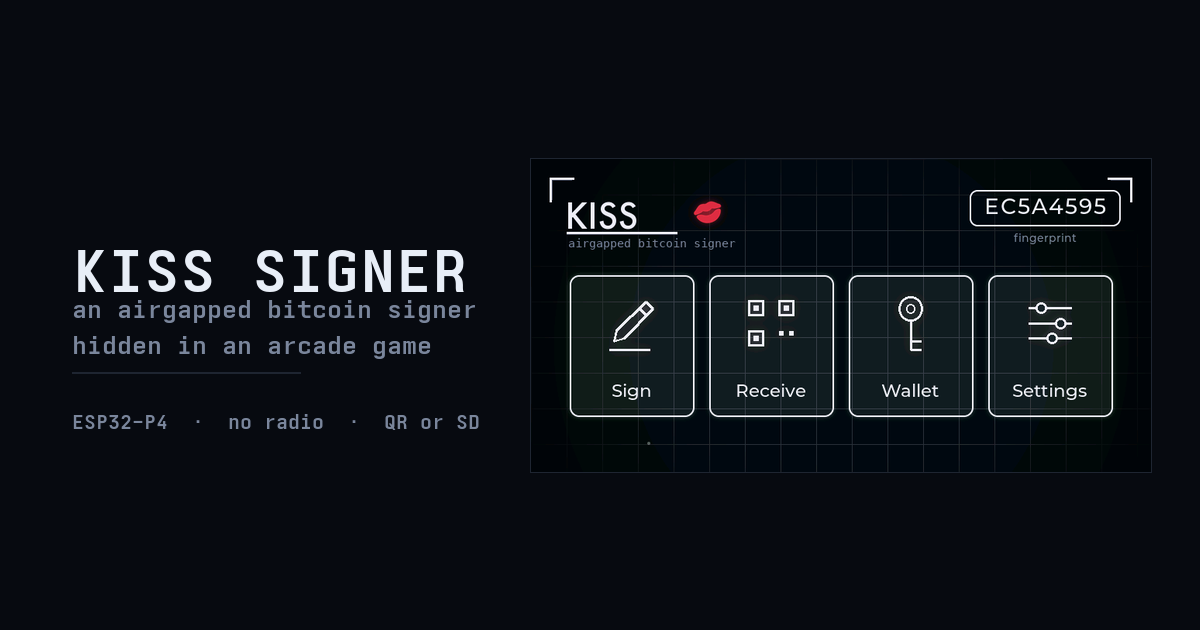
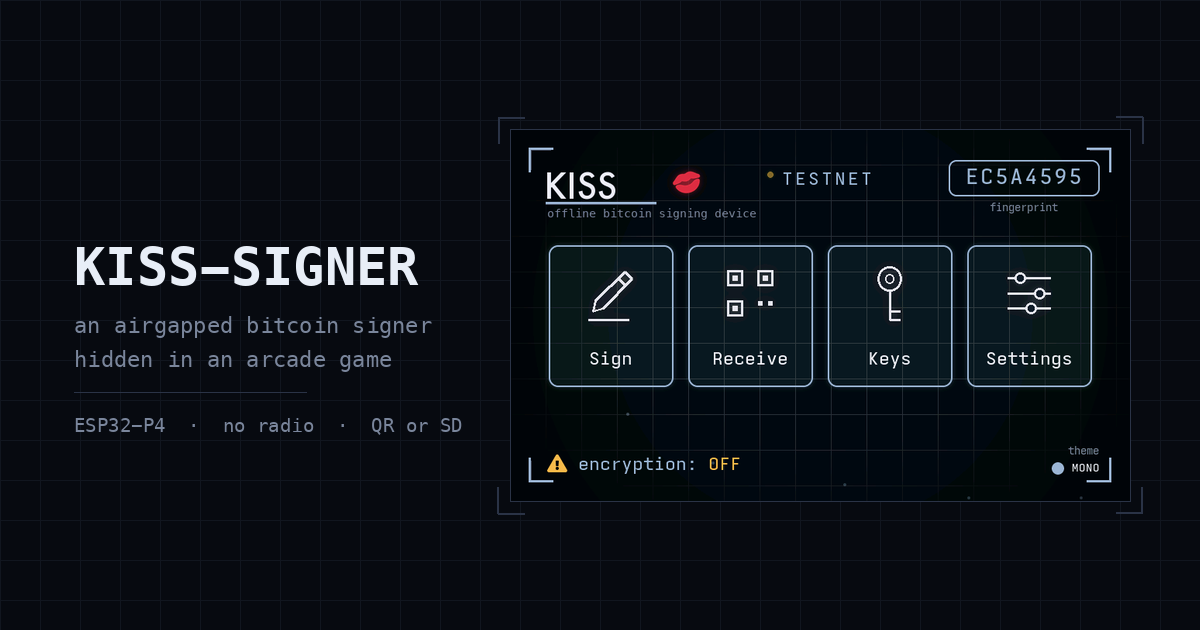
Generate the social card, and gate it
The card every shared link renders was composed by hand in July and had
no generator, so nothing could see it go stale. It was still drawing a
home screen whose third key read WALLET, months after the firmware
renamed that key to KEYS -- and `wallet` is the word the glossary
reserves for the coordinator and forbids on a screen of this device.
The same rule turned the release branch red the day this was written.

It is built from docs/media/signer-home.png now, the frame the
simulator renders, so the device draws its own half of the image and
the card cannot disagree with the screen again. Preflight runs --check
beside the other docs-image gates, which is the part that keeps it
true: 35 of 35.

diff --git a/assets/generators/og_card.py b/assets/generators/og_card.py
@@ -1,0 +1,122 @@
+#!/usr/bin/env python3
+"""Build docs/media/og-preview.png, the card every shared link renders.
+
+There was no generator for this. The card was composed by hand once, in
+July, and then went stale in a way nobody could see: it kept drawing a home
+screen whose third key said WALLET, months after the firmware renamed that key
+to KEYS -- and `wallet` is the one word the glossary reserves for the
+coordinator's object and forbids on a screen of this device. The same rule
+turned the release branch red the day this script was written.
+
+So the card is generated from the screenshot the docs already carry rather than
+redrawn from memory. Re-run it whenever the home screen changes and the card
+cannot drift from the device again:
+
+    python3 assets/generators/og_card.py            # writes the card
+    python3 assets/generators/og_card.py --check    # fails if it is stale
+
+The right-hand frame is docs/media/signer-home.png, which tools/gen_docs_shots.py
+renders from the simulator, so the device draws its own half of this image.
+Colours are the WT_* tokens from main/kiss_theme.h, same as the site.
+"""
+
+from __future__ import annotations
+
+import argparse
+import pathlib
+import sys
+
+from PIL import Image, ImageDraw, ImageFont
+
+ROOT = pathlib.Path(__file__).resolve().parents[2]
+SHOT = ROOT / "docs" / "media" / "signer-home.png"
+OUT = ROOT / "docs" / "media" / "og-preview.png"
+
+# Open Graph's expected size. Twitter reads the same file.
+W, H = 1200, 630
+
+BG = (7, 10, 16)  # WT_BG
+INK = (232, 238, 247)  # WT_INK
+MUT = (122, 134, 156)  # WT_MUT
+EDGE = (42, 51, 70)  # WT_EDGE
+GRID = (17, 22, 31)  # the site's backdrop rules, at card scale
+
+MENLO = "/System/Library/Fonts/Menlo.ttc"
+
+
+def font(size: int, bold: bool = False) -> ImageFont.FreeTypeFont:
+    """A mono face. Menlo, not the site's Ioskeley: PIL cannot read woff2, and
+    the shape of the letters matters less here than that they are monospaced."""
+    return ImageFont.truetype(MENLO, size, index=1 if bold else 0)
+
+
+def corner_brackets(d: ImageDraw.ImageDraw, box, arm=26, w=2, colour=EDGE):
+    """The reticle the device frames a target with, and the site frames its
+    panels with. Four corners, drawn as eight strokes."""
+    x0, y0, x1, y1 = box
+    for cx, cy, dx, dy in ((x0, y0, 1, 1), (x1, y0, -1, 1), (x0, y1, 1, -1), (x1, y1, -1, -1)):
+        d.line([(cx, cy), (cx + arm * dx, cy)], fill=colour, width=w)
+        d.line([(cx, cy), (cx, cy + arm * dy)], fill=colour, width=w)
+
+
+def build() -> Image.Image:
+    if not SHOT.exists():
+        sys.exit(f"missing {SHOT.relative_to(ROOT)}; run tools/gen_docs_shots.py first")
+
+    card = Image.new("RGB", (W, H), BG)
+    d = ImageDraw.Draw(card)
+
+    # the backdrop: two near-invisible rules on a 40px pitch, as body does
+    for x in range(0, W, 40):
+        d.line([(x, 0), (x, H)], fill=GRID)
+    for y in range(0, H, 40):
+        d.line([(0, y), (W, y)], fill=GRID)
+
+    # ---- right: the device, drawing its own half of the card
+    shot = Image.open(SHOT).convert("RGB")
+    sw = 620
+    sh = round(shot.height * sw / shot.width)
+    shot = shot.resize((sw, sh), Image.LANCZOS)
+    sx, sy = W - sw - 70, (H - sh) // 2
+    card.paste(shot, (sx, sy))
+    d.rectangle([sx, sy, sx + sw, sy + sh], outline=EDGE, width=1)
+    corner_brackets(d, (sx - 12, sy - 12, sx + sw + 12, sy + sh + 12))
+
+    # ---- left: the lockup
+    x = 74
+    d.text((x, 236), "KISS-SIGNER", font=font(52, bold=True), fill=INK)
+
+    # "signer" is glossary-safe; "wallet" would not be, on this device's card
+    d.text((x, 312), "an airgapped bitcoin signer", font=font(22), fill=MUT)
+    d.text((x, 346), "hidden in an arcade game", font=font(22), fill=MUT)
+
+    d.line([(x, 392), (x + 232, 392)], fill=EDGE, width=1)
+    d.text((x, 414), "ESP32-P4  ·  no radio  ·  QR or SD", font=font(19), fill=MUT)
+
+    return card
+
+
+def main() -> None:
+    ap = argparse.ArgumentParser(description=__doc__)
+    ap.add_argument("--check", action="store_true",
+                    help="exit non-zero if the committed card is not what this would write")
+    args = ap.parse_args()
+
+    card = build()
+
+    if args.check:
+        if not OUT.exists():
+            sys.exit(f"{OUT.relative_to(ROOT)} is missing; run this script")
+        if Image.open(OUT).convert("RGB").tobytes() != card.tobytes():
+            sys.exit(f"{OUT.relative_to(ROOT)} is stale; re-run "
+                     f"python3 assets/generators/og_card.py")
+        print(f"og card: {OUT.relative_to(ROOT)} matches the current home screen")
+        return
+
+    OUT.parent.mkdir(parents=True, exist_ok=True)
+    card.save(OUT, "PNG", optimize=True)
+    print(f"wrote {OUT.relative_to(ROOT)}  ({W}x{H}, {OUT.stat().st_size / 1024:.0f} KB)")
+
+
+if __name__ == "__main__":
+    main()
